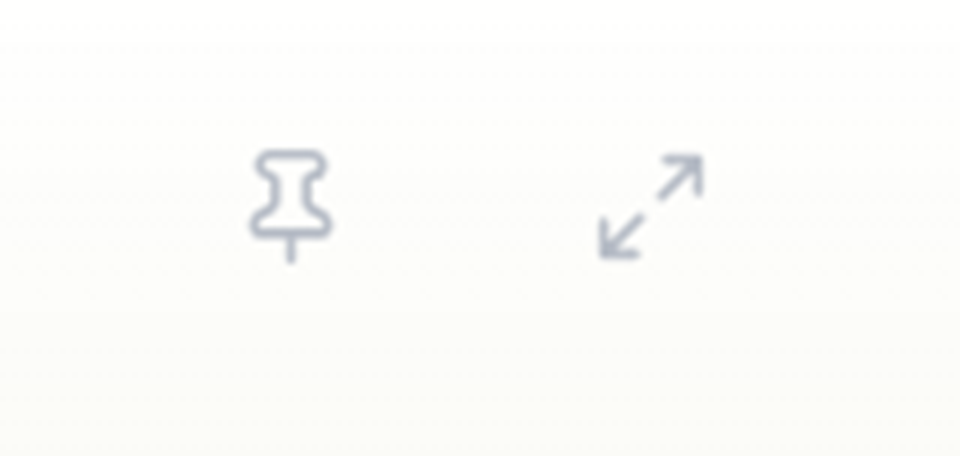
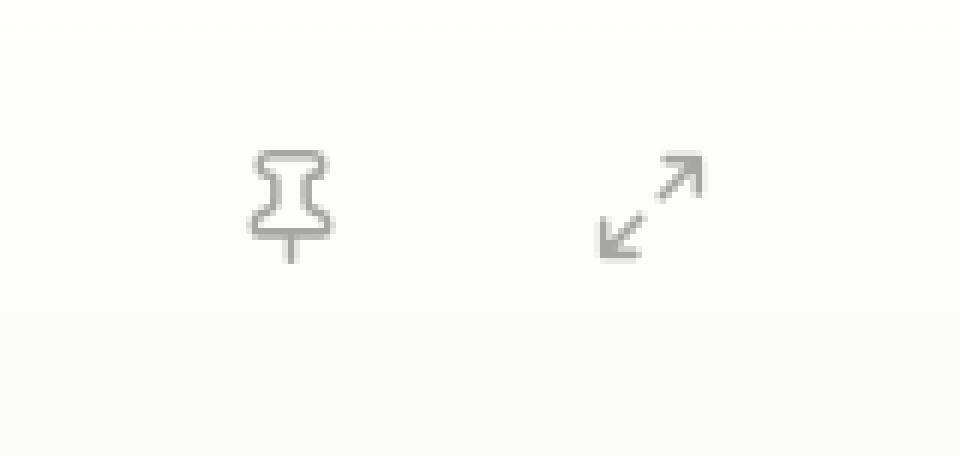
fix(desktop): use a neutral conversation toolbar tone
Cool and warm low-chroma grays both read as dirty against the warm paper
surface. A neutral gray keeps the glyphs quiet without a colored cast.

Running-app evidence was regenerated from the built Tauri app.

Changed region(s): [[0.25, 0.307, 0.3438, 0.5833], [0.625, 0.4605, 0.6875, 0.5833], [0.6875, 0.3377, 0.75, 0.4298]]

diff --git a/apps/desktop/src/styles/tokens/primitive.css b/apps/desktop/src/styles/tokens/primitive.css
@@ -102,7 +102,7 @@
     --color-ui-800: #e2e2df;
 
     /* Existing conversation toolbar shades, independent of Tailwind's OKLCH ramp. */
-    --color-chrome-gray-350: #b6bcc6;
+    --color-chrome-gray-350: #a6a6a3;
     --color-chrome-gray-400: #9ca3af;
     --color-chrome-scrollbar: rgba(156, 163, 175, 0.25);
     --color-chrome-scrollbar-hover: rgba(156, 163, 175, 0.4);
